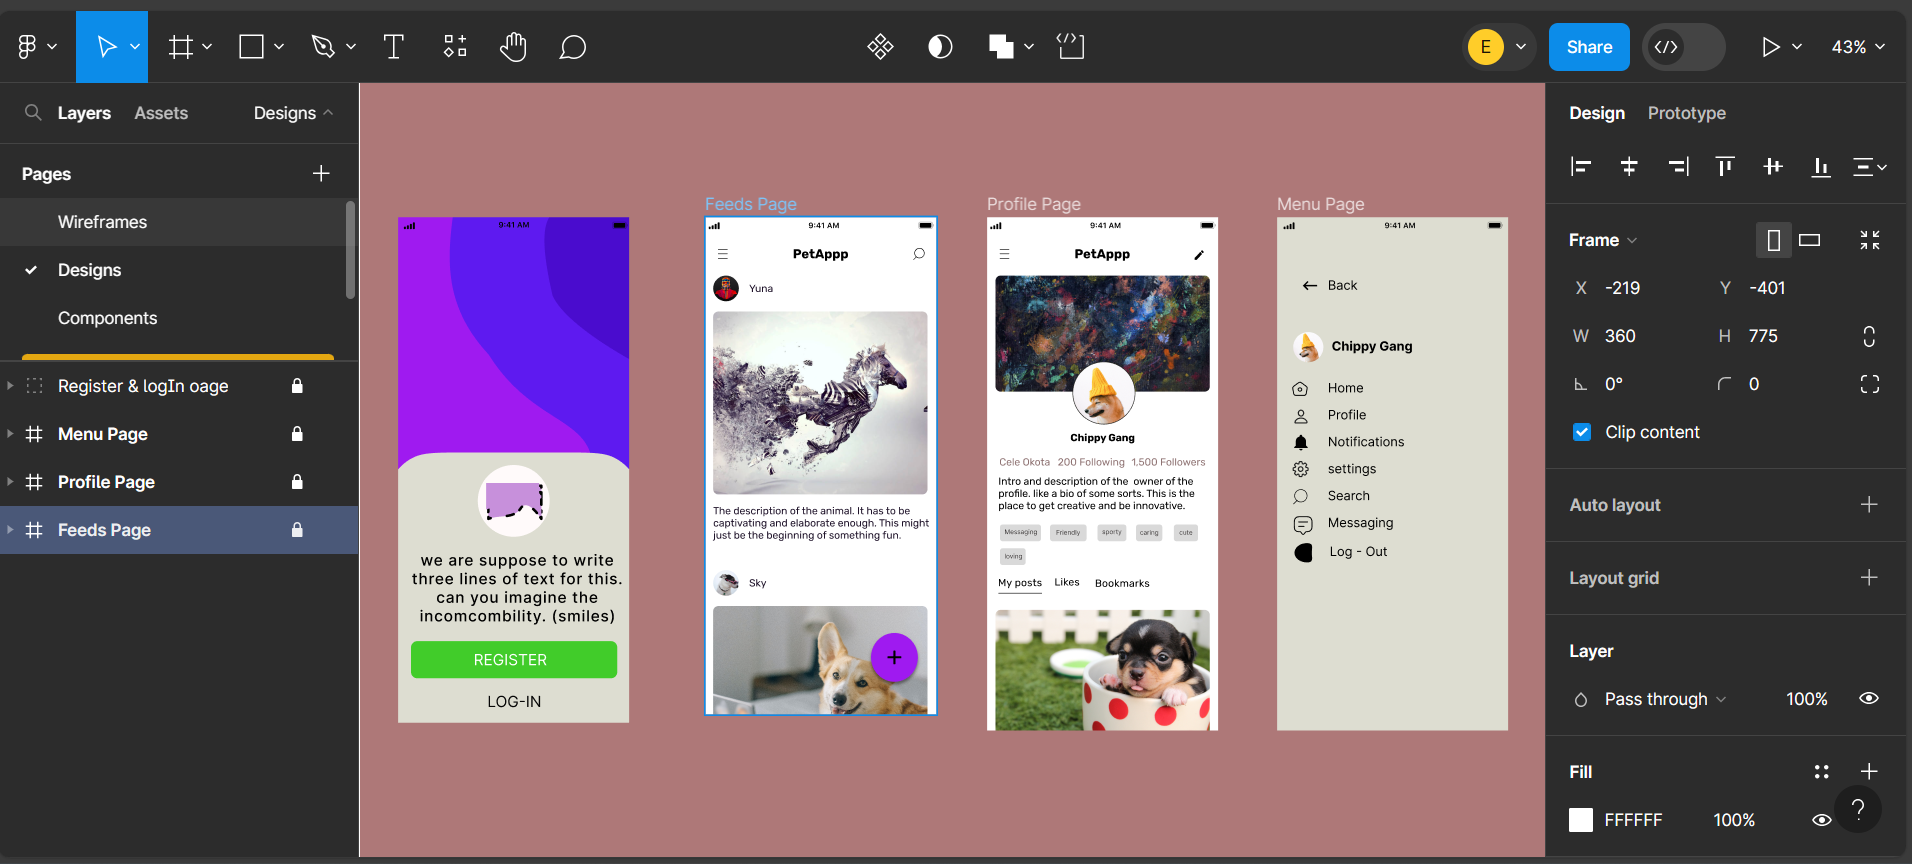
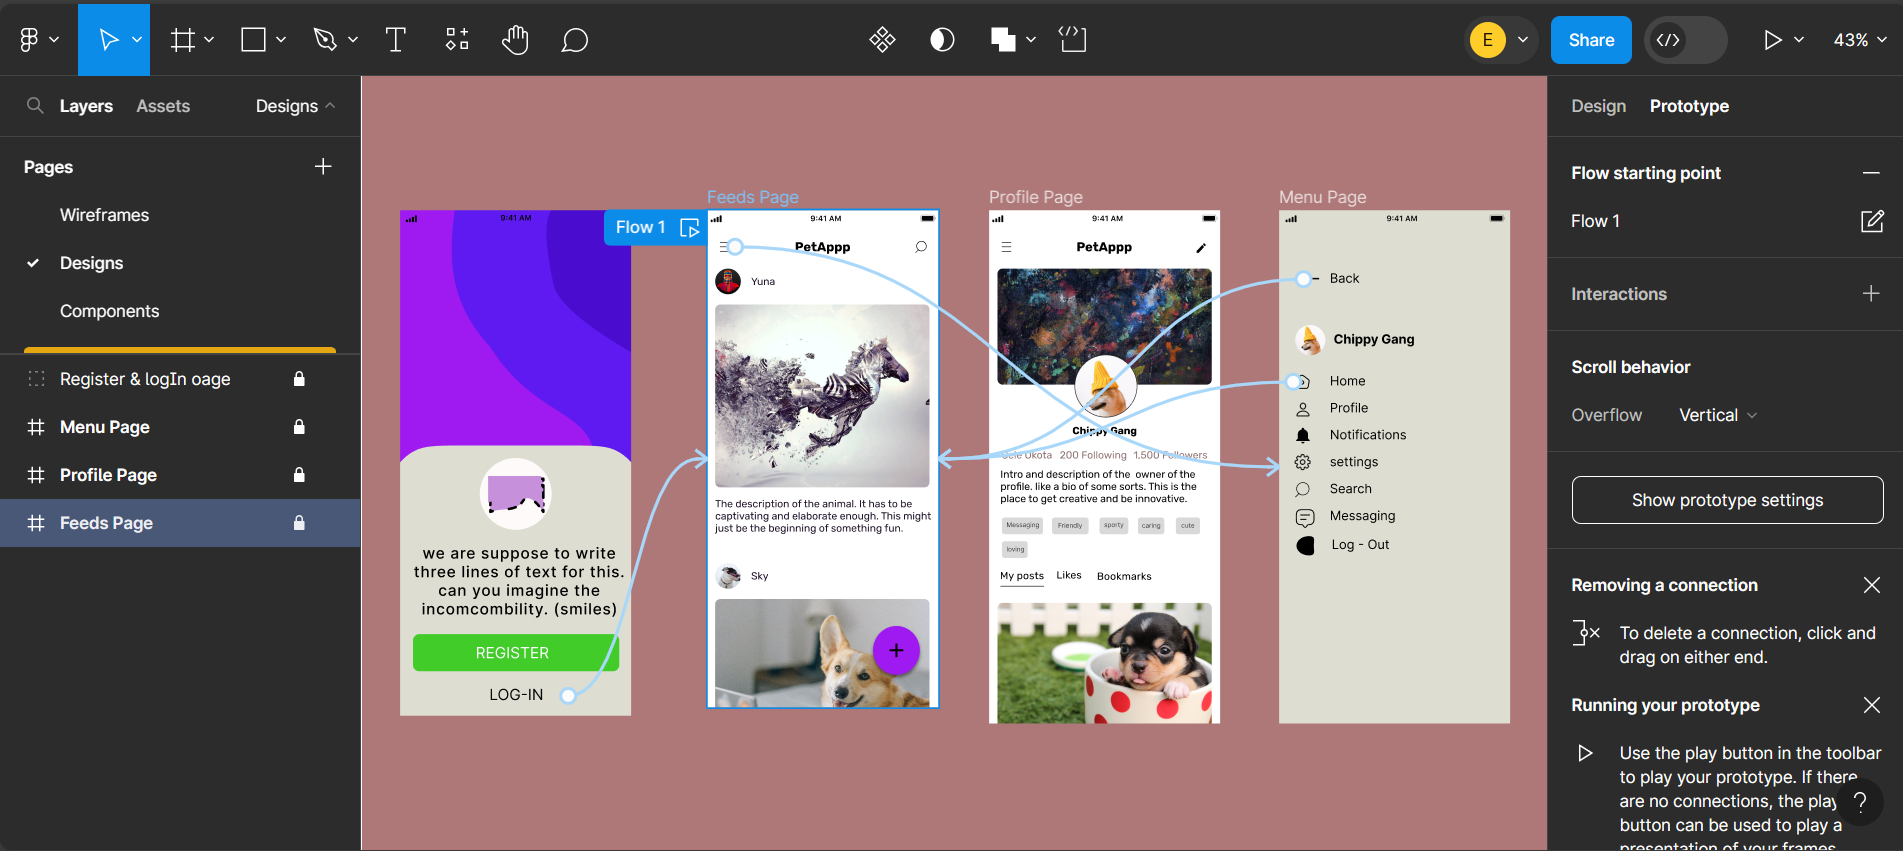
images

diff --git a/agile projects/petAppp by kachi/README.md b/agile projects/petAppp by kachi/README.md
@@ -28,19 +28,19 @@ The chosen color scheme enhances the aesthetic appeal of the app:
 
 ##### UI Components
 <div>
-    <img   />
+    <img  src='images/petApp 1.png' alt='UI Components' width='100%' height='400' />
 </div> 
 
 ##### Designed pages
 <div>
-    <img   />
+    <img  src='images/petApp 2.png' alt=' Designed pages' width='100%' height='400' />
 </div> 
 
 ##### Prototype
 To bring the design to life, a prototype was developed using ease-in and ease-out animations. This not only provided a visually engaging experience but also mimicked real-world user interactions. 
 
 <div>
-    <img   />
+    <img  src='images/petApp 3.png' alt='Prototype' width='100%' height='400' />
 </div> 
 
 Feel free to explore the prototype to get an interactive preview of the PetAppp-by-Kachi.
@@ -119,6 +119,6 @@ Project pages on Jira:
 <a href="https://emmanuelkachi.atlassian.net/jira/software/projects/PBK/boards/5"> JIRA Board & Confluence</a>
 
 <div>
-    <img   />
-    <img   />
+    <img src='images/petApp 4.png' alt='Jira Board' width='100%' height='400'  />
+    <img  src='images/petApp 5.png' alt='Confluence' width='100%' height='400' />
 </div> 
